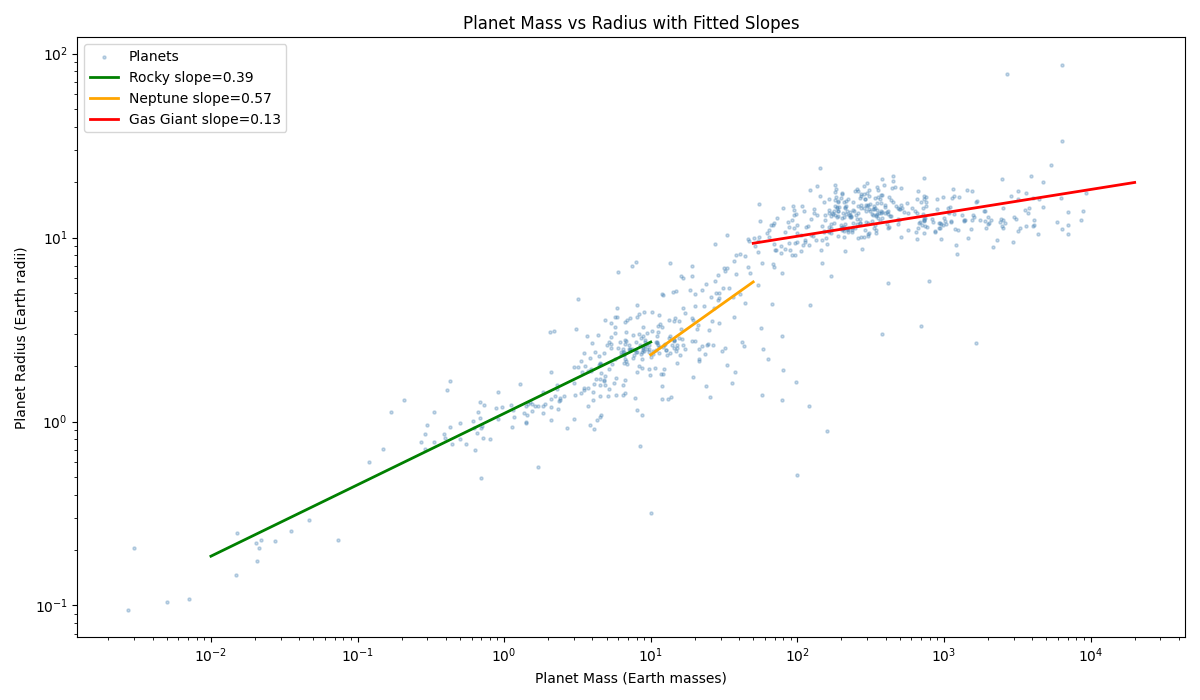
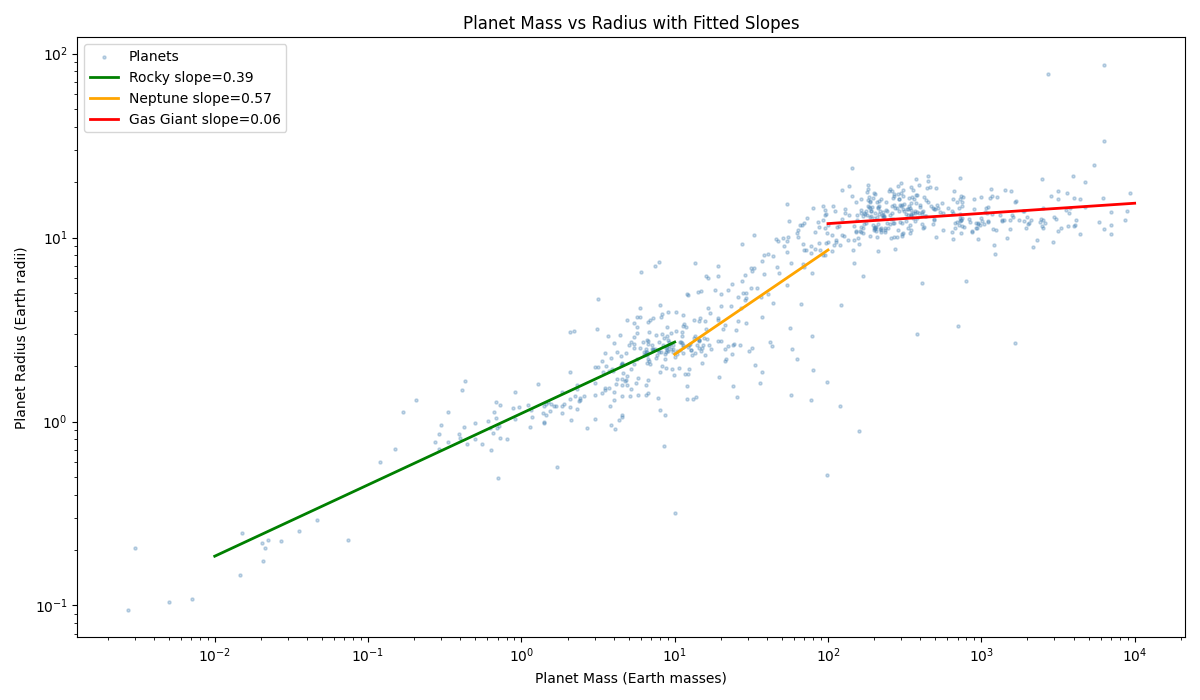
june 28

diff --git a/Radius_Valley_graph.py b/Radius_Valley_graph.py
@@ -6,7 +6,7 @@ import os
 os.chdir(os.path.dirname(os.path.abspath(__file__)))
 
 # Load the unified catalog
-merged = pd.read_csv("short_period_exoplanets_G.csv", low_memory=False)
+merged = pd.read_csv("exoplanets_G_type.csv", low_memory=False)
 
 # Graph 1 - Planet Size Distribution with Planet Types and Radius Valley
 bins_size = np.arange(0.5, 12.1, 0.1)
@@ -38,7 +38,7 @@ plt.text(2.10, 155, "Sub-Neptune", fontsize=8, color="red",    rotation=90)
 plt.text(5.00, 155, "Neptune-like",fontsize=8, color="purple", rotation=90)
 plt.text(10.2, 155, "Gas Giant",   fontsize=8, color="brown",  rotation=90)
 
-plt.title("Distribution of Planet Sizes by Type (with Radius Valley)")
+plt.title("Distribution of Planets with size (G-type, P<100 days;Radius Valley)")
 plt.xlabel("Planet Radius (Earth radii)")
 plt.ylabel("Number of Planets")
 plt.xlim(0.5, 12)
